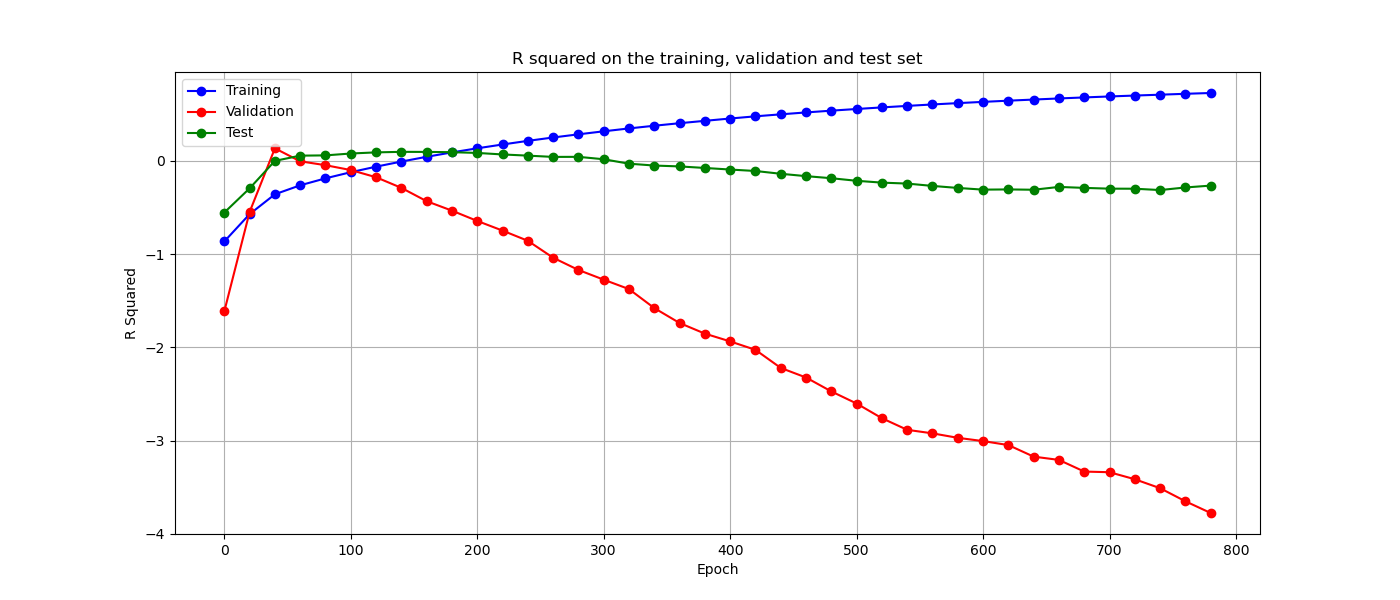
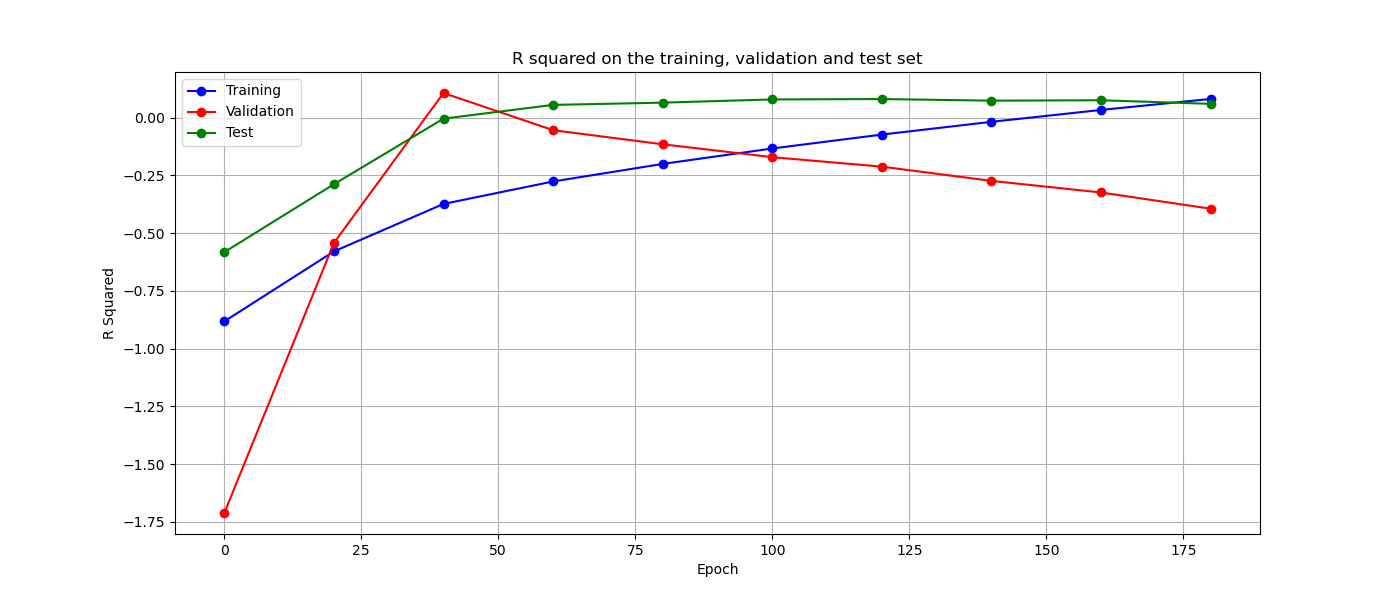
faster models + new data

diff --git a/src/models/lstm.py b/src/models/lstm.py
@@ -124,12 +124,14 @@ class lstm_model(nn.Module):
 
         # Generate metrics
         test_rmse = np.sqrt(loss_fn(y_pred, test_y).detach().numpy())      
-        test_mae  = loss_fn(y_pred, test_y).detach().numpy()
+        test_mae  = nn.L1Loss(y_pred, test_y).detach().numpy()
         test_r2  = r2score(y_pred, test_y)
 
         # Print metrics
         print("-"*40)
         print(f"test RMSE {test_rmse}, test MAE {test_mae}, test R2 {test_r2}")
+        with open("src/data/metrics.txt", "a") as f:
+                    f.write(f"test RMSE {test_rmse}, test MAE {test_mae}, test R2 {test_r2}\n")
     
     def early_stopping(self, train_loss, best_train_loss, patience, min_delta = 0.01):
           # Early stopping check
@@ -229,7 +231,7 @@ loss_mae  = nn.L1Loss()
 
 
 metrics = {"epoch": [], "train_mse":[], "train_mae": [], "train_r2": [], "val_mse":[], "val_mae": [], "val_r2":[], "test_mse":[], "test_r2":[]}
-n_epochs       = 800
+n_epochs       = 200
 r2score = R2Score()
 
 model, metrics = model.train_model(model, n_epochs, train_X, train_y, val_X, val_y, test_X, test_y, optimizer, loss_fn, metrics)

diff --git a/src/models/lstm_weather.py b/src/models/lstm_weather.py
@@ -124,12 +124,14 @@ class lstm_model(nn.Module):
 
         # Generate metrics
         test_rmse = np.sqrt(loss_fn(y_pred, test_y).detach().numpy())      
-        test_mae  = loss_fn(y_pred, test_y).detach().numpy()
+        test_mae  = nn.L1Loss(y_pred, test_y).detach().numpy()
         test_r2  = r2score(y_pred, test_y)
 
         # Print metrics
         print("-"*40)
-        print(f"test RMSE {test_rmse}, test MAE {test_mae}, test R2 {test_r2}")
+        print(f"Weather: test RMSE {test_rmse}, test MAE {test_mae}, test R2 {test_r2}")
+        with open("src/data/metrics.txt", "a") as f:
+            f.write(f"Weather: test RMSE {test_rmse}, test MAE {test_mae}, test R2 {test_r2}\n")
     
     def early_stopping(self, train_loss, best_train_loss, patience, min_delta = 0.01):
           # Early stopping check
@@ -262,7 +264,7 @@ plt.xlabel("Epoch")
 plt.ylabel("R Squared")
 plt.legend()
 plt.grid()
-plt.savefig("src/visualisations/TrainingAndValidationLoss.png")
+plt.savefig("src/visualisations/Weather_TrainingAndValidationLoss.png")
 fig.show()
 
 

diff --git a/src/models/weighted_lstm.py b/src/models/weighted_lstm.py
@@ -127,13 +127,15 @@ class weighted_lstm_model(nn.Module):
 
         # Generate metrics
         test_rmse = np.sqrt(self.weighted_loss(pred_test, test_y, test_w).detach().numpy())      
-        test_mae  = self.weighted_loss(pred_test, test_y, test_w).detach().numpy()
-        test_mse = self.weighted_loss(pred_test, test_y, test_w)
-        test_r2 = self.weighted_r2(test_mse, test_y, test_w)
+        test_mae  = nn.L1Loss(pred_test, test_y, test_w).detach().numpy()
+        test_mse  = self.weighted_loss(pred_test, test_y, test_w)
+        test_r2   = self.weighted_r2(test_mse, test_y, test_w)
 
         # Print metrics
         print("-"*40)
         print(f"Weighted: test RMSE {test_rmse}, test MAE {test_mae}, test R2 {test_r2}")
+        with open("src/data/metrics.txt", "a") as f:
+            f.write(f"Weighted: test RMSE {test_rmse}, test MAE {test_mae}, test R2 {test_r2}\n")
 
         return np.sqrt(test_rmse), test_mae, test_r2
     
